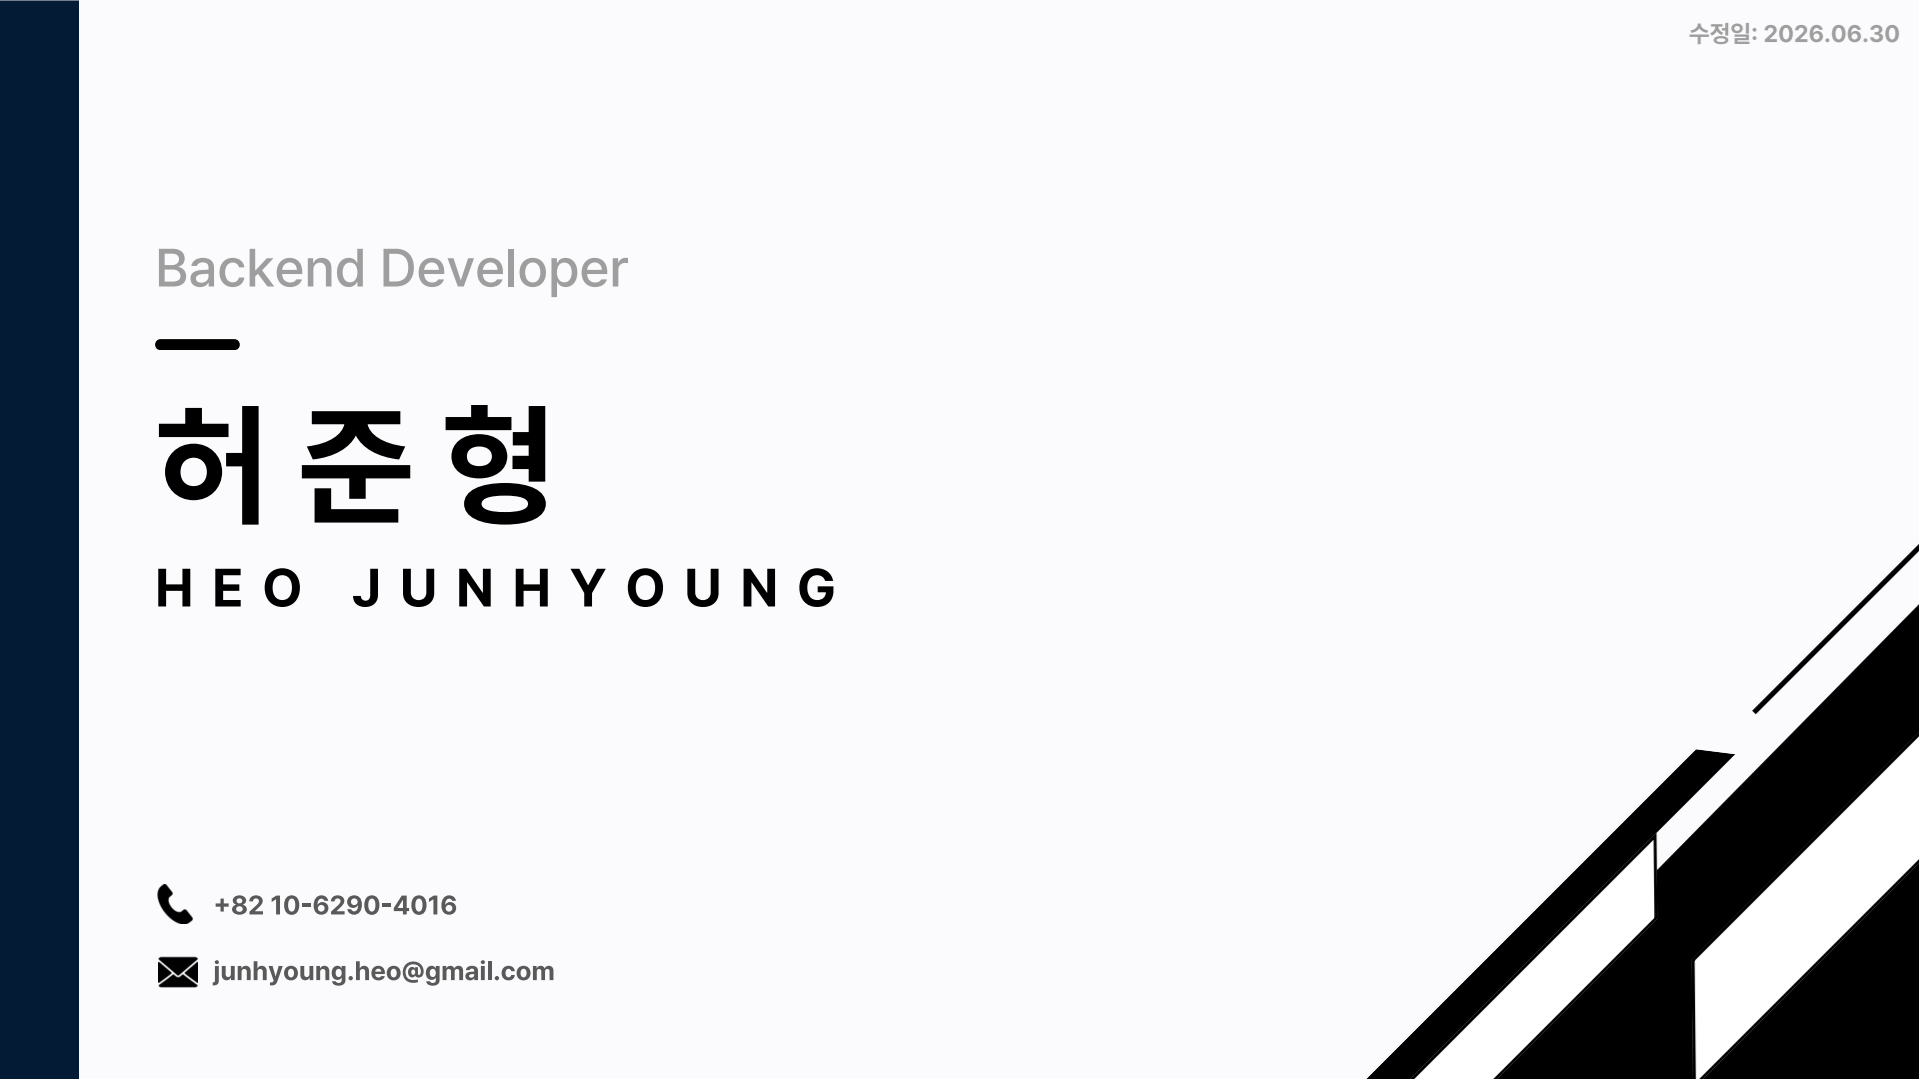
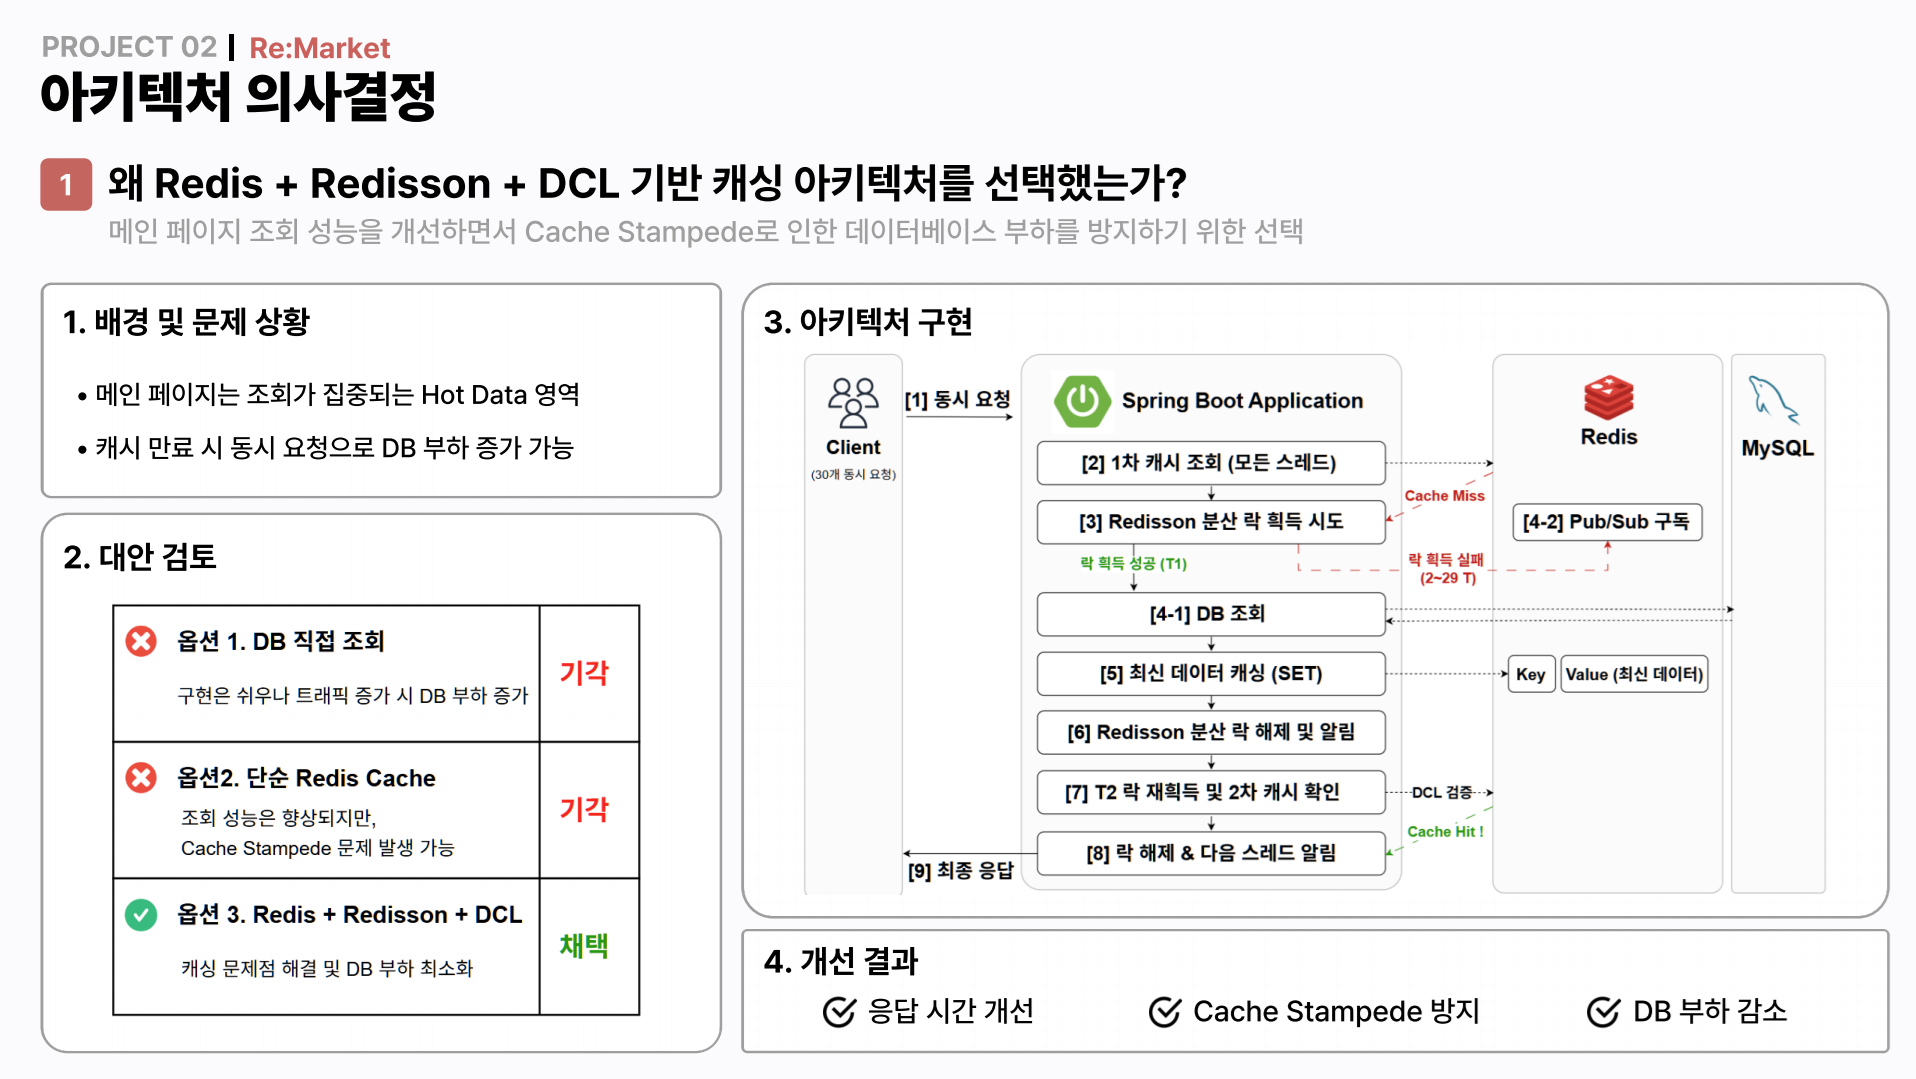
feat: 배너 디자인 수정

diff --git a/assets/main.scss b/assets/main.scss
@@ -285,176 +285,220 @@ body {
 
 
 
-
-
 /* =========================================
-   9. Portfolio Banner (포트폴리오 보러가기)
+   Portfolio Banner
    ========================================= */
+
 .portfolio-banner-container {
-  /* 1. 간격 축소: 윗쪽 여백을 없애거나 줄여서 헤더 바로 아래에 붙입니다. */
-  /* 더 바짝 붙이고 싶다면 -10px, -20px 처럼 음수(-) 값을 넣으시면 됩니다. */
-  margin-top: 0px !important; 
-  
-  /* About Me 섹션과의 간격은 조금 넉넉하게 줍니다. */
-  margin-bottom: 50px !important; 
+  margin-top: 0;
+  margin-bottom: 55px;
 }
 
 .portfolio-banner {
   display: flex;
   align-items: center;
   justify-content: space-between;
-  background: linear-gradient(135deg, #ffffff 0%, #f4f7fc 100%);
-  border: 1px solid #e2e8f0;
+
+  padding: 28px 34px;
+
+  background: #fff;
+  border: 1px solid #e5e7eb;
   border-radius: 16px;
-  padding: 40px 50px; /* 패딩을 약간 더 키워 배너를 넉넉하게 만듭니다 */
-  box-shadow: 0 10px 30px rgba(0, 0, 0, 0.05);
-  position: relative;
+
+  box-shadow:
+    0 2px 8px rgba(0,0,0,.05),
+    0 10px 24px rgba(0,0,0,.04);
+
   overflow: hidden;
 }
 
-/* 배경 도트 무늬 */
-.portfolio-banner::before {
-  content: "";
-  position: absolute;
-  top: 15px;
-  left: 15px;
-  width: 60px;
-  height: 60px;
-  background-image: radial-gradient(#d1d8e0 2.5px, transparent 2.5px);
-  background-size: 15px 15px;
-  opacity: 0.6;
-}
-.portfolio-banner::after {
-  content: "";
-  position: absolute;
-  bottom: 15px;
-  right: 15px;
-  width: 60px;
-  height: 60px;
-  background-image: radial-gradient(#d1d8e0 2.5px, transparent 2.5px);
-  background-size: 15px 15px;
-  opacity: 0.6;
-}
+/* -----------------------------
+   왼쪽 썸네일 영역
+------------------------------ */
 
-.pb-left {
+.pb-preview {
   flex: 1;
-  display: flex;
-  justify-content: center;
-  z-index: 1;
-}
 
-.pb-pdf-img {
-  width: 160px; /* 아이콘 크기 확대 */
-  height: auto;
-  filter: drop-shadow(0 8px 16px rgba(0,0,0,0.1));
-}
-
-.pb-center {
-  flex: 2;
   display: flex;
-  flex-direction: column;
   align-items: center;
-  text-align: center;
-  z-index: 1;
-  padding: 0 20px;
+  gap: 18px;
 }
 
-.pb-badge {
-  display: inline-block;
-  background-color: #eef2ff;
-  color: #3b82f6;
-  font-size: 1.1rem; /* 뱃지 글자 크기 확대 */
-  font-weight: 700;
-  padding: 8px 18px; /* 뱃지 여백 확대 */
-  border-radius: 20px;
-  margin-bottom: 15px;
-  letter-spacing: 0.5px;
-}
+.pb-preview img {
+  width: 270px;
+  height: auto;
 
-.pb-title {
-  font-size: 2.8rem !important; /* 제목 크기 대폭 확대 */
-  font-weight: 800 !important;
-  color: #1e293b !important;
-  margin-bottom: 15px !important;
-  border-bottom: none !important;
-  display: block !important;
-}
-
-.pb-subtitle {
-  font-size: 1.4rem; /* 부제목 크기 확대 */
-  color: #64748b;
-  margin-bottom: 30px;
-  word-break: keep-all;
-}
-
-.pb-button {
-  display: inline-block;
-  background-color: #2563eb;
-  color: #ffffff !important;
-  font-size: 1.4rem; /* 버튼 글자 크기 확대 */
-  font-weight: 700;
-  padding: 16px 36px; /* 버튼 자체 크기 확대 */
   border-radius: 8px;
-  text-decoration: none !important;
-  transition: background-color 0.3s ease, transform 0.2s ease;
-  box-shadow: 0 4px 12px rgba(37, 99, 235, 0.3);
+
+  background: #fff;
+
+  border: 1px solid #ececec;
+
+  box-shadow:
+      0 3px 8px rgba(0,0,0,.08);
+
+  transition: .2s ease;
 }
 
-.pb-button:hover {
-  background-color: #1d4ed8;
+.pb-preview img:hover {
   transform: translateY(-2px);
 }
 
-.pb-note {
-  font-size: 1.1rem; /* 안내 문구 크기 확대 */
-  color: #94a3b8;
-  margin-top: 15px;
-}
+/* -----------------------------
+   오른쪽 설명
+------------------------------ */
 
-.pb-right {
-  flex: 1.2;
+.pb-info {
+  width: 340px;
+
   display: flex;
+  flex-direction: column;
   justify-content: center;
-  z-index: 1;
+
+  margin-left: 40px;
 }
 
 .pb-checklist {
   list-style: none;
-  padding: 0 !important;
-  margin: 0 !important;
-  text-align: left;
+
+  padding: 0;
+  margin: 0 0 24px 0;
 }
 
 .pb-checklist li {
-  font-size: 1.4rem; /* 체크리스트 글자 크기 확대 */
-  color: #334155;
-  margin-bottom: 16px; /* 줄 간격 확대 */
   display: flex;
   align-items: center;
+
+  font-size: 24px;
+  font-weight: 700;
+  color: #222;
+
+  margin-bottom: 16px;
+
+  line-height: 1.4;
 }
 
-.pb-checklist li i {
-  color: #3b82f6;
+.pb-checklist li:last-child {
+  margin-bottom: 0;
+}
+
+.pb-checklist i {
   margin-right: 12px;
-  font-size: 1.6rem; /* 체크 아이콘 크기 확대 */
+
+  font-size: 21px;
+
+  color: #222;
 }
 
-/* 태블릿 & 모바일 환경 반응형 처리 */
-@media (max-width: 992px) {
+/* -----------------------------
+   버튼
+------------------------------ */
+
+.pb-button {
+  display: inline-flex;
+  align-items: center;
+  justify-content: center;
+  gap: 10px;
+
+  width: fit-content;
+
+  padding: 15px 28px;
+
+  margin-top: 26px;
+
+  border-radius: 8px;
+
+  background: #17345d;
+
+  color: #fff !important;
+
+  text-decoration: none;
+
+  font-size: 21px;
+  font-weight: 700;
+
+  box-shadow:
+      0 4px 10px rgba(0,0,0,.14);
+
+  transition: .2s ease;
+}
+
+.pb-button:hover {
+  background: #102949;
+  transform: translateY(-2px);
+}
+
+.pb-button i {
+  font-size: 18px;
+}
+
+/* -----------------------------
+   반응형
+------------------------------ */
+
+@media (max-width: 1100px) {
+
   .portfolio-banner {
+
     flex-direction: column;
-    padding: 30px 20px;
+
+    align-items: flex-start;
+
+    padding: 24px;
   }
-  .pb-left, .pb-right {
-    margin: 20px 0;
-  }
-  .pb-center {
-    padding: 0;
-  }
-  .pb-right {
-    border-top: 1px dashed #cbd5e1;
-    padding-top: 25px;
+
+  .pb-preview {
+
     width: 100%;
-    justify-content: flex-start;
+
+    justify-content: center;
+
+    flex-wrap: wrap;
+
+    margin-bottom: 30px;
+  }
+
+  .pb-preview img {
+
+    width: 320px;
+
+    max-width: 100%;
+  }
+
+  .pb-info {
+
+    width: 100%;
+
+    margin-left: 0;
+  }
+
+  .pb-button {
+
+    width: 100%;
+
+    justify-content: center;
+  }
+}
+
+@media (max-width: 700px) {
+
+  .pb-preview {
+
+    flex-direction: column;
+  }
+
+  .pb-preview img {
+
+    width: 100%;
+  }
+
+  .pb-checklist li {
+
+    font-size: 18px;
+  }
+
+  .pb-button {
+
+    font-size: 18px;
   }
 }

diff --git a/_includes/portfolio_banner.html b/_includes/portfolio_banner.html
@@ -1,4 +1,4 @@
-<div class="container portfolio-banner-container no-print">
+<!-- <div class="container portfolio-banner-container no-print">
   <div class="portfolio-banner">
     <div class="pb-left">
       <img src="{{ '/images/pdf-icon.png' | relative_url }}" alt="PDF Icon" class="pb-pdf-img">
@@ -21,5 +21,40 @@
         <li><i class="far fa-check-circle"></i> 실무 트러블 슈팅 사례</li>
       </ul>
     </div>
+  </div>
+</div> -->
+<div class="container portfolio-banner-container no-print">
+  <div class="portfolio-banner">
+
+    <!-- 왼쪽 : 포트폴리오 썸네일 -->
+    <div class="pb-preview">
+
+      <img src="{{ '/images/portfolio_thumnail(1).png' | relative_url }}"
+           alt="Portfolio Cover">
+
+      <img src="{{ '/images/portfolio_thumnail(2).png' | relative_url }}"
+           alt="Architecture">
+
+    </div>
+
+    <!-- 오른쪽 -->
+    <div class="pb-info">
+
+      <ul class="pb-checklist">
+        <li><i class="fas fa-check-circle"></i> 프로젝트 상세 경험</li>
+        <li><i class="fas fa-check-circle"></i> 아키텍처 의사결정</li>
+        <li><i class="fas fa-check-circle"></i> 성과 및 성능 개선 사례</li>
+        <li><i class="fas fa-check-circle"></i> 실무 트러블 슈팅 사례</li>
+      </ul>
+
+      <a href="{{ '/assets/pdf/Portfolio.pdf' | relative_url }}"
+         target="_blank"
+         class="pb-button">
+        포트폴리오 PDF 열기
+        <i class="fas fa-external-link-alt"></i>
+      </a>
+
+    </div>
+
   </div>
 </div>
